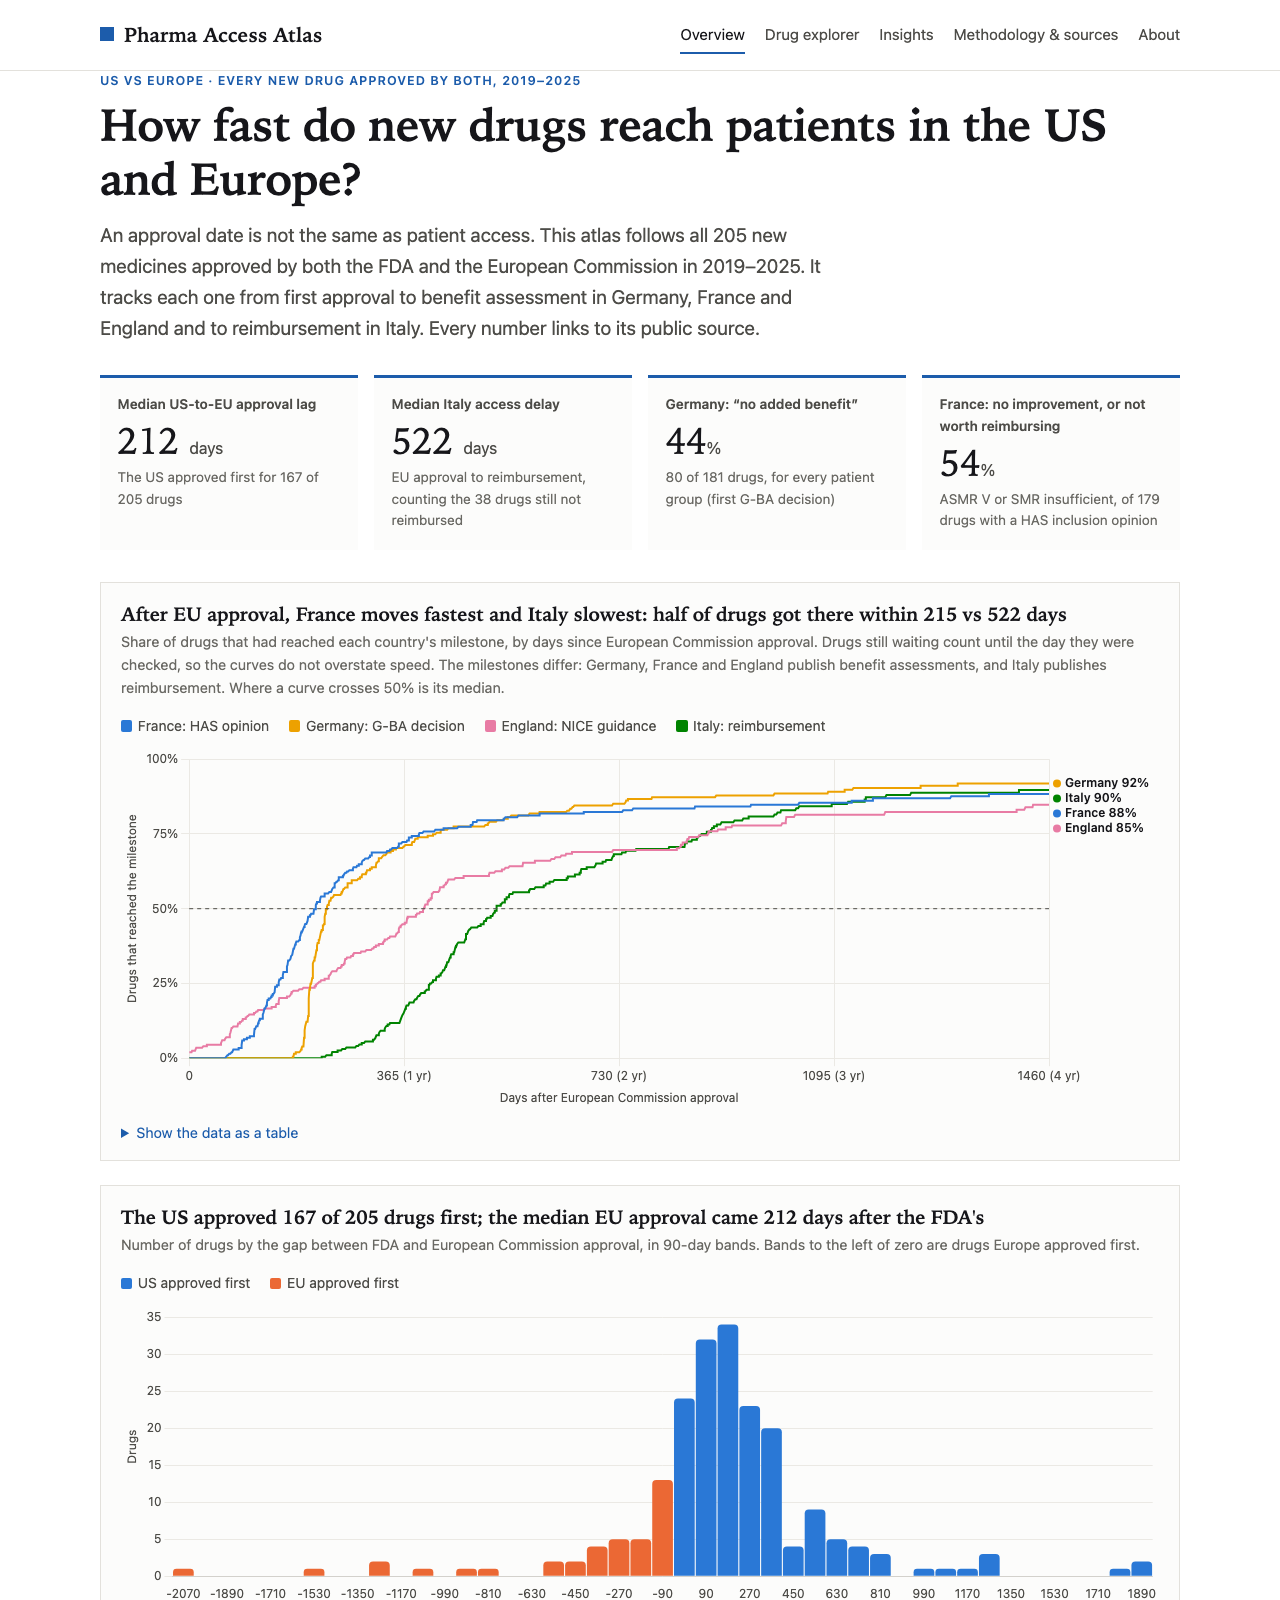
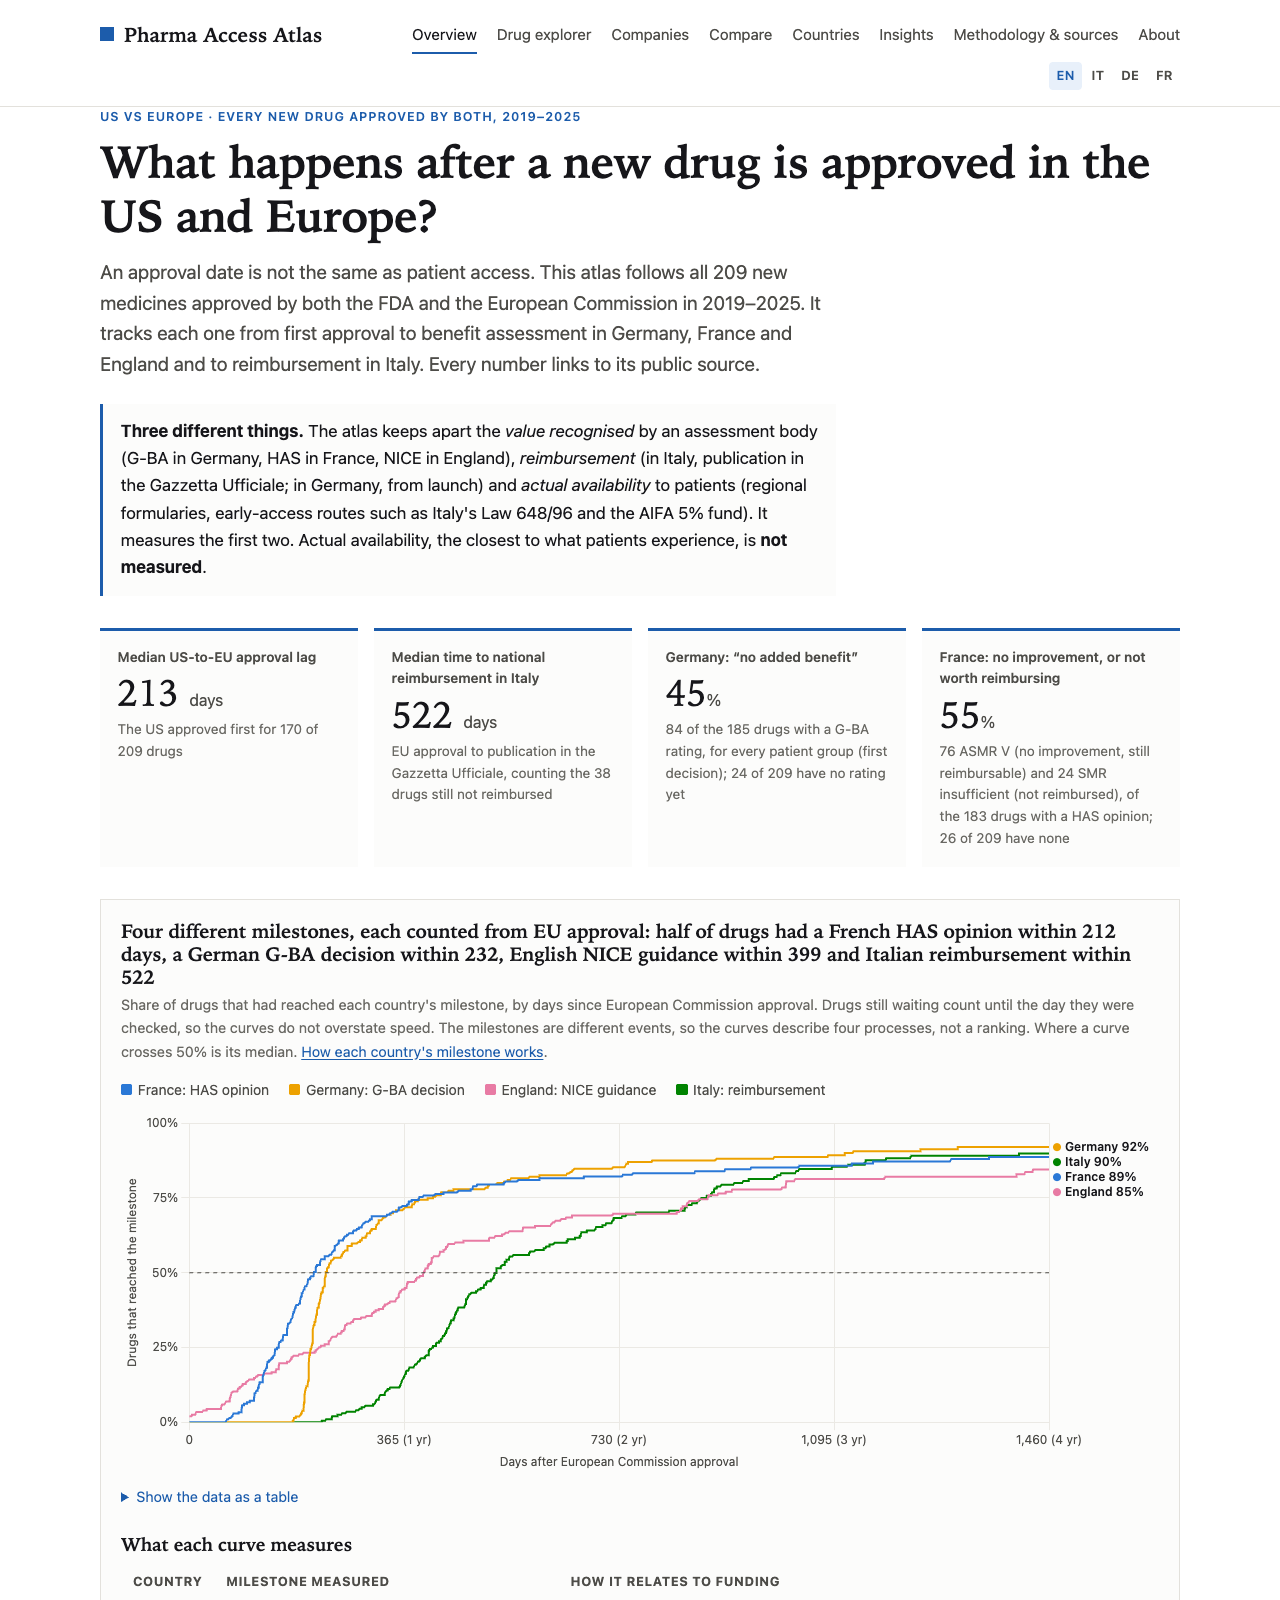
Fix innovativeness chart labels and show innovativeness in explorer and compare
The overview's AIFA innovativeness chart showed raw keys (innov.full) because
those labels were not passed to the page scripts. The explorer and the compare
page now show AIFA innovativeness beside the G-BA, HAS and NICE verdicts. The
README screenshot, still showing the old ranked title, is regenerated from the
current site, and the README's opening line and sources match the site. Adds
validator tests for the Italian date order and innovativeness values.

diff --git a/site/assets/js/explorer.js b/site/assets/js/explorer.js
@@ -9,6 +9,7 @@
   rows.forEach(r => {
     r.it_sort = r.it_lag ?? (r.it_waiting !== null ? 100000 + r.it_waiting : null); // waiting sorts last
     r.gba_sort = r.gba_rating ? RATING_ORDER.indexOf(r.gba_rating) : null;
+    r.innov_sort = r.it_innov ? ["full", "conditional", "not recognised"].indexOf(r.it_innov) : null;
     r.fr_sort = r.fr_verdict ? ["I", "II", "III", "IV", "V", "SMR insufficient"].indexOf(r.fr_verdict) : null;
   });
 
@@ -44,7 +45,7 @@
   };
 
   // Card labels on phones (the column headers are hidden there).
-  const L = Object.fromEntries(["area", "company", "fda", "ec", "lag", "it", "de", "fr", "en", "orphan"]
+  const L = Object.fromEntries(["area", "company", "fda", "ec", "lag", "it", "innov", "de", "fr", "en", "orphan"]
     .map(k => [k, Atlas.esc(Atlas.t(`js.ex.${k}`))]));
 
   function render() {
@@ -76,12 +77,13 @@
         <td data-label="${L.ec}" style="white-space:nowrap">${Atlas.fmtDate(r.ec_date)}</td>
         <td class="num" data-label="${L.lag}">${r.lag === null ? Atlas.t("na") : Atlas.num(r.lag)}</td>
         <td class="num" data-label="${L.it}">${italyCell(r)}</td>
+        <td data-label="${L.innov}">${r.it_innov ? Atlas.esc(Atlas.t(`innov.${r.it_innov}`)) : `<span class="muted">${Atlas.t("na")}</span>`}</td>
         <td data-label="${L.de}">${ratingPill(r)}</td>
         <td data-label="${L.fr}">${r.fr_verdict ? Atlas.esc(Atlas.t(`asmr.${r.fr_verdict}`))
               : r.fr_pending ? `<span class="pill">${Atlas.t("js.no_opinion_yet")}</span>` : `<span class="muted">${Atlas.t("na")}</span>`}</td>
         <td data-label="${L.en}">${r.en_decision ? Atlas.esc(Atlas.t(`nice.${r.en_decision}`)) : r.en_pending ? `<span class="pill">${Atlas.t("js.in_progress")}</span>` : `<span class="muted">${Atlas.t("na")}</span>`}</td>
         <td data-label="${L.orphan}">${orphanCell(r)}</td>
-      </tr>`).join("") || `<tr><td colspan="11">${Atlas.t("js.no_match")}</td></tr>`;
+      </tr>`).join("") || `<tr><td colspan="12">${Atlas.t("js.no_match")}</td></tr>`;
 
     el("result-count").textContent = Atlas.t("js.showing", { n: visible.length, total: rows.length });
 

diff --git a/site/assets/js/compare.js b/site/assets/js/compare.js
@@ -138,6 +138,8 @@
     [Atlas.t("js.cmp.r_lag"), r => (r.lag === null ? na : r.lag < 0 ? Atlas.t("js.cmp.eu_first_by", { d: days(-r.lag) }) : days(r.lag))],
     [Atlas.t("js.country.it"), r => (r.it_lag !== null ? Atlas.t("js.cmp.it_reimb", { cls: Atlas.esc(r.it_class) }) + sub(Atlas.t("js.days_after_ec", { n: Atlas.num(r.it_lag) }))
       : r.it_status === "not reimbursed" ? Atlas.t("js.cmp.it_not") + sub(Atlas.t("js.cmp.it_so_far", { d: days(r.it_waiting), cls: Atlas.esc(r.it_class) })) : na)],
+    [Atlas.t("js.cmp.r_it_innov"), r => (r.it_innov ? Atlas.esc(Atlas.t(`innov.${r.it_innov}`))
+      : r.it_status === "not reimbursed" ? `<span class="muted">${Atlas.t("js.innov_none")}</span>` : na)],
     [Atlas.t("js.cmp.r_de"), r => (RATING[r.gba_rating] ? `${RATING[r.gba_rating]}${r.gba_orphan === "yes" ? Atlas.t("js.cmp.orphan_rules") : ""}`
       + (r.gba_lag !== null ? sub(Atlas.t("js.days_after_ec", { n: Atlas.num(r.gba_lag) })) : "")
       : r.gba_rating === "not assessed" ? Atlas.t("gba.not assessed") : r.gba_pending ? Atlas.t("js.cmp.in_progress") : na)],

diff --git a/site/pages/i18n/fr/explorer.html b/site/pages/i18n/fr/explorer.html
@@ -49,6 +49,7 @@
         <th scope="col" data-key="ec_date"><button class="sort-btn" type="button">CE</button></th>
         <th scope="col" class="num" data-key="lag"><button class="sort-btn" type="button">Décalage États-Unis→UE (jours)</button></th>
         <th scope="col" class="num" data-key="it_sort"><button class="sort-btn" type="button">Italie : jusqu’au remboursement (jours)</button></th>
+        <th scope="col" data-key="innov_sort"><button class="sort-btn" type="button">Innovation AIFA</button></th>
         <th scope="col" data-key="gba_sort"><button class="sort-btn" type="button">Évaluation G-BA</button></th>
         <th scope="col" data-key="fr_sort"><button class="sort-btn" type="button">ASMR France</button></th>
         <th scope="col" data-key="en_decision"><button class="sort-btn" type="button">NICE</button></th>

diff --git a/site/pages/i18n/it/explorer.html b/site/pages/i18n/it/explorer.html
@@ -49,6 +49,7 @@
         <th scope="col" data-key="ec_date"><button class="sort-btn" type="button">CE</button></th>
         <th scope="col" class="num" data-key="lag"><button class="sort-btn" type="button">Intervallo USA→UE (giorni)</button></th>
         <th scope="col" class="num" data-key="it_sort"><button class="sort-btn" type="button">Italia: alla rimborsabilità (giorni)</button></th>
+        <th scope="col" data-key="innov_sort"><button class="sort-btn" type="button">Innovatività AIFA</button></th>
         <th scope="col" data-key="gba_sort"><button class="sort-btn" type="button">Valutazione G-BA</button></th>
         <th scope="col" data-key="fr_sort"><button class="sort-btn" type="button">ASMR Francia</button></th>
         <th scope="col" data-key="en_decision"><button class="sort-btn" type="button">NICE</button></th>

diff --git a/site/pages/i18n/de/explorer.html b/site/pages/i18n/de/explorer.html
@@ -49,6 +49,7 @@
         <th scope="col" data-key="ec_date"><button class="sort-btn" type="button">EK</button></th>
         <th scope="col" class="num" data-key="lag"><button class="sort-btn" type="button">Abstand USA→EU (Tage)</button></th>
         <th scope="col" class="num" data-key="it_sort"><button class="sort-btn" type="button">Italien: bis zur Erstattung (Tage)</button></th>
+        <th scope="col" data-key="innov_sort"><button class="sort-btn" type="button">Innovationsstatus AIFA</button></th>
         <th scope="col" data-key="gba_sort"><button class="sort-btn" type="button">G-BA-Bewertung</button></th>
         <th scope="col" data-key="fr_sort"><button class="sort-btn" type="button">Frankreich ASMR</button></th>
         <th scope="col" data-key="en_decision"><button class="sort-btn" type="button">NICE</button></th>

diff --git a/site/pages/explorer.html b/site/pages/explorer.html
@@ -49,6 +49,7 @@
         <th scope="col" data-key="ec_date"><button class="sort-btn" type="button">EC</button></th>
         <th scope="col" class="num" data-key="lag"><button class="sort-btn" type="button">US→EU lag (days)</button></th>
         <th scope="col" class="num" data-key="it_sort"><button class="sort-btn" type="button">Italy: to reimbursement (days)</button></th>
+        <th scope="col" data-key="innov_sort"><button class="sort-btn" type="button">AIFA innovativeness</button></th>
         <th scope="col" data-key="gba_sort"><button class="sort-btn" type="button">G-BA rating</button></th>
         <th scope="col" data-key="fr_sort"><button class="sort-btn" type="button">France ASMR</button></th>
         <th scope="col" data-key="en_decision"><button class="sort-btn" type="button">NICE</button></th>

diff --git a/pipeline/test_validate.py b/pipeline/test_validate.py
@@ -65,6 +65,16 @@ class ValidatorCatchesBadData(unittest.TestCase):
         self.field("enhertu", "ema_opinion_date")["value"] = "2030-01-01"
         self.assertIn("after EC approval", self.run_validator())
 
+    def test_price_opinion_after_publication_fails(self):
+        f = self.field("enhertu", "it_price_opinion_date")
+        f.update(value="2023-08-01", status="verified", source_url="https://example.org", retrieved_date="2026-01-01")
+        self.assertIn("AIFA price opinion (2023-08-01) is after", self.run_validator())
+
+    def test_bad_innovativeness_fails(self):
+        f = self.field("enhertu", "it_innovative")
+        f.update(value="partial", status="verified", source_url="https://example.org", retrieved_date="2026-01-01")
+        self.assertIn("it_innovative", self.run_validator())
+
     def test_bad_rating_fails(self):
         f = self.field("enhertu", "de_gba_rating_best")
         f.update(value="fantastic", status="verified", source_url="https://example.org", retrieved_date="2026-01-01")

diff --git a/pipeline/i18n.py b/pipeline/i18n.py
@@ -92,7 +92,7 @@ class Strings:
 
     def js(self) -> dict:
         """The strings the page scripts need (keys starting with js., label., or the shared verdict names)."""
-        prefixes = ("js.", "label.", "gba.", "asmr.", "nice.", "na")
+        prefixes = ("js.", "label.", "gba.", "asmr.", "nice.", "innov.", "na")
         return {k: v for k, v in self.table.items() if k.startswith(prefixes)}
 
 

diff --git a/README.md b/README.md
@@ -1,6 +1,6 @@
 # Pharma Access Atlas
 
-**How quickly, and on what terms, do new drugs reach patients in the US and Europe? A fully sourced market-access dashboard covering every new medicine approved by both the FDA and the EU in 2019–2025 (209 drugs), with Italy, Germany, France and England.**
+**What happens after a new drug is approved in the US and Europe? A fully sourced market-access dashboard covering every new medicine approved by both the FDA and the EU in 2019–2025 (209 drugs): benefit assessment in Germany, France and England, and reimbursement in Italy.**
 
 **Live site → [lucamurri.github.io/pharma-access-atlas](https://lucamurri.github.io/pharma-access-atlas/)**
 in English, [Italiano](https://lucamurri.github.io/pharma-access-atlas/it/), [Deutsch](https://lucamurri.github.io/pharma-access-atlas/de/) and [Français](https://lucamurri.github.io/pharma-access-atlas/fr/).
@@ -70,6 +70,7 @@ The site has an overview with time-to-access curves, a filterable drug explorer,
 | NICE | England appraisal outcome, date, TA number | Manual, sourced CSV |
 | Gazzetta Ufficiale / AIFA | Italian reimbursement date and class; AIFA innovativeness and procedure dates from the same determination | Manual, sourced CSV (extracted from the full text) |
 | G-BA | AMNOG decision date and rating | Manual, sourced CSV |
+| FDA Novel Drug Approvals lists | Cross-check of the drug selection, 2019–2025 | One-off check (`pipeline/crosscheck_fda.py`) |
 | FDA OOPD, CBER, CMS fact sheets | US orphan designation, cell and gene therapy dates, list price | Manual, sourced CSV |
 
 ## Tech stack
@@ -84,7 +85,8 @@ The site has an overview with time-to-access curves, a filterable drug explorer,
   navigation, and every chart has a data-table alternative.
 
 ```
-pipeline/           universe.py (drug selection); fetch_*.py → build.py → validate.py → coverage.py;
+pipeline/           universe.py (drug selection); crosscheck_fda.py (checks it against FDA's lists);
+                    fetch_*.py → build.py → validate.py → coverage.py;
                     watch_has.py (flags new HAS opinions); analysis.py, so_what.py, check_text.py, i18n.py, build_site.py
 data/raw/           trimmed extracts of the downloaded sources
 data/manual/        hand-maintained CSVs (one sourced fact per row; see its README)
